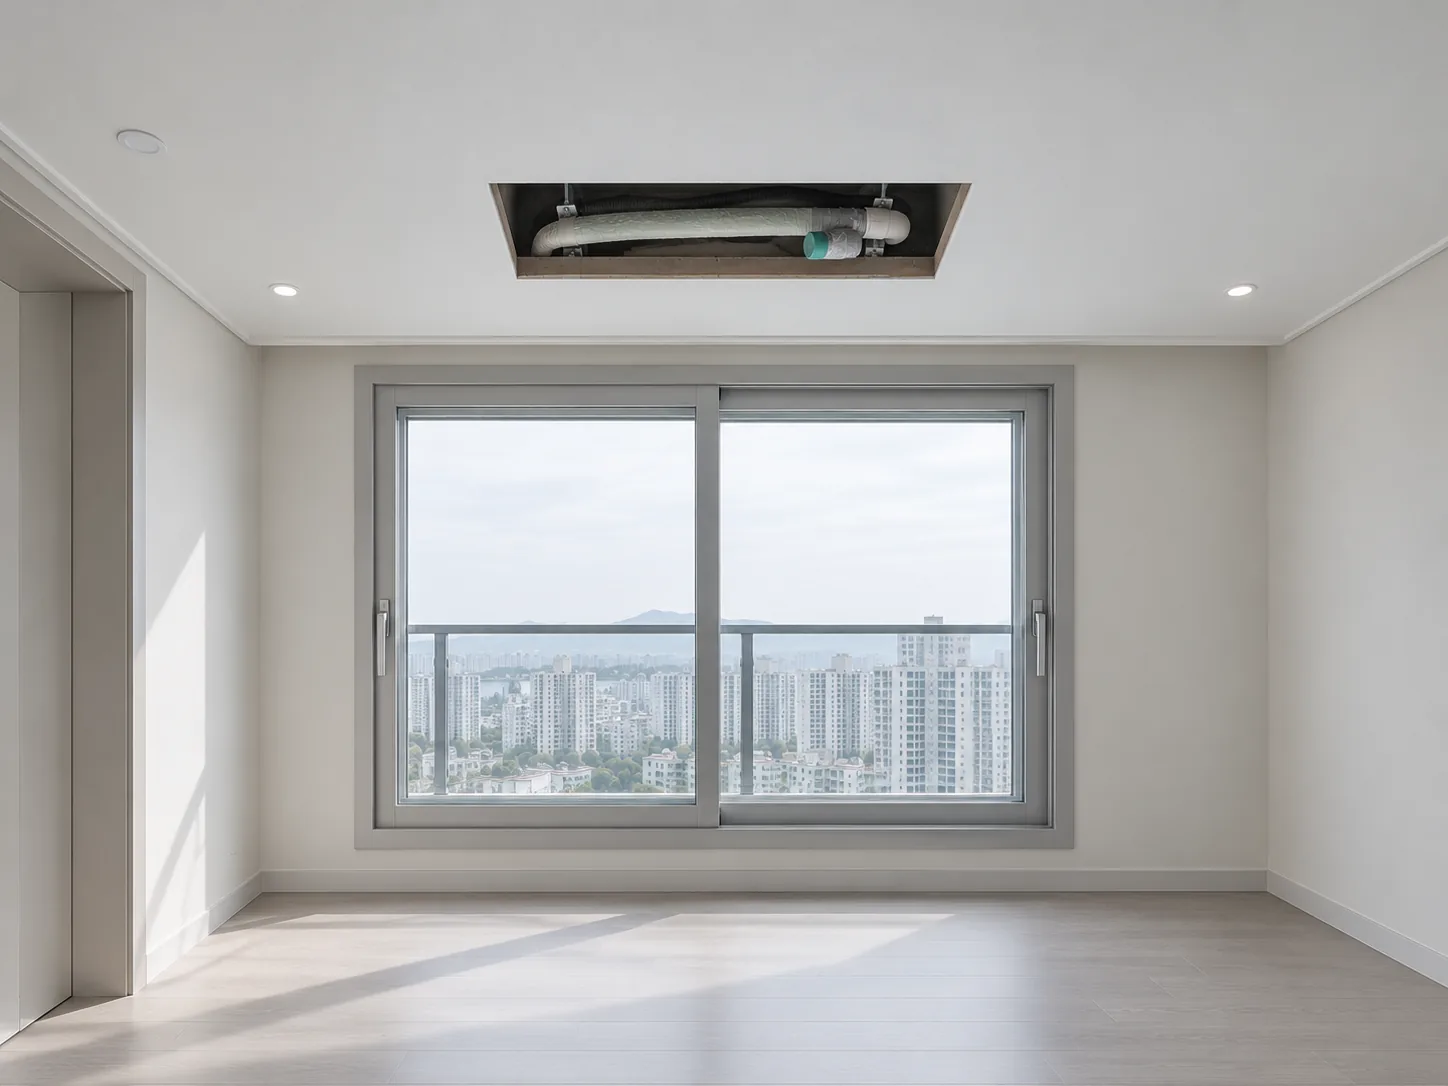
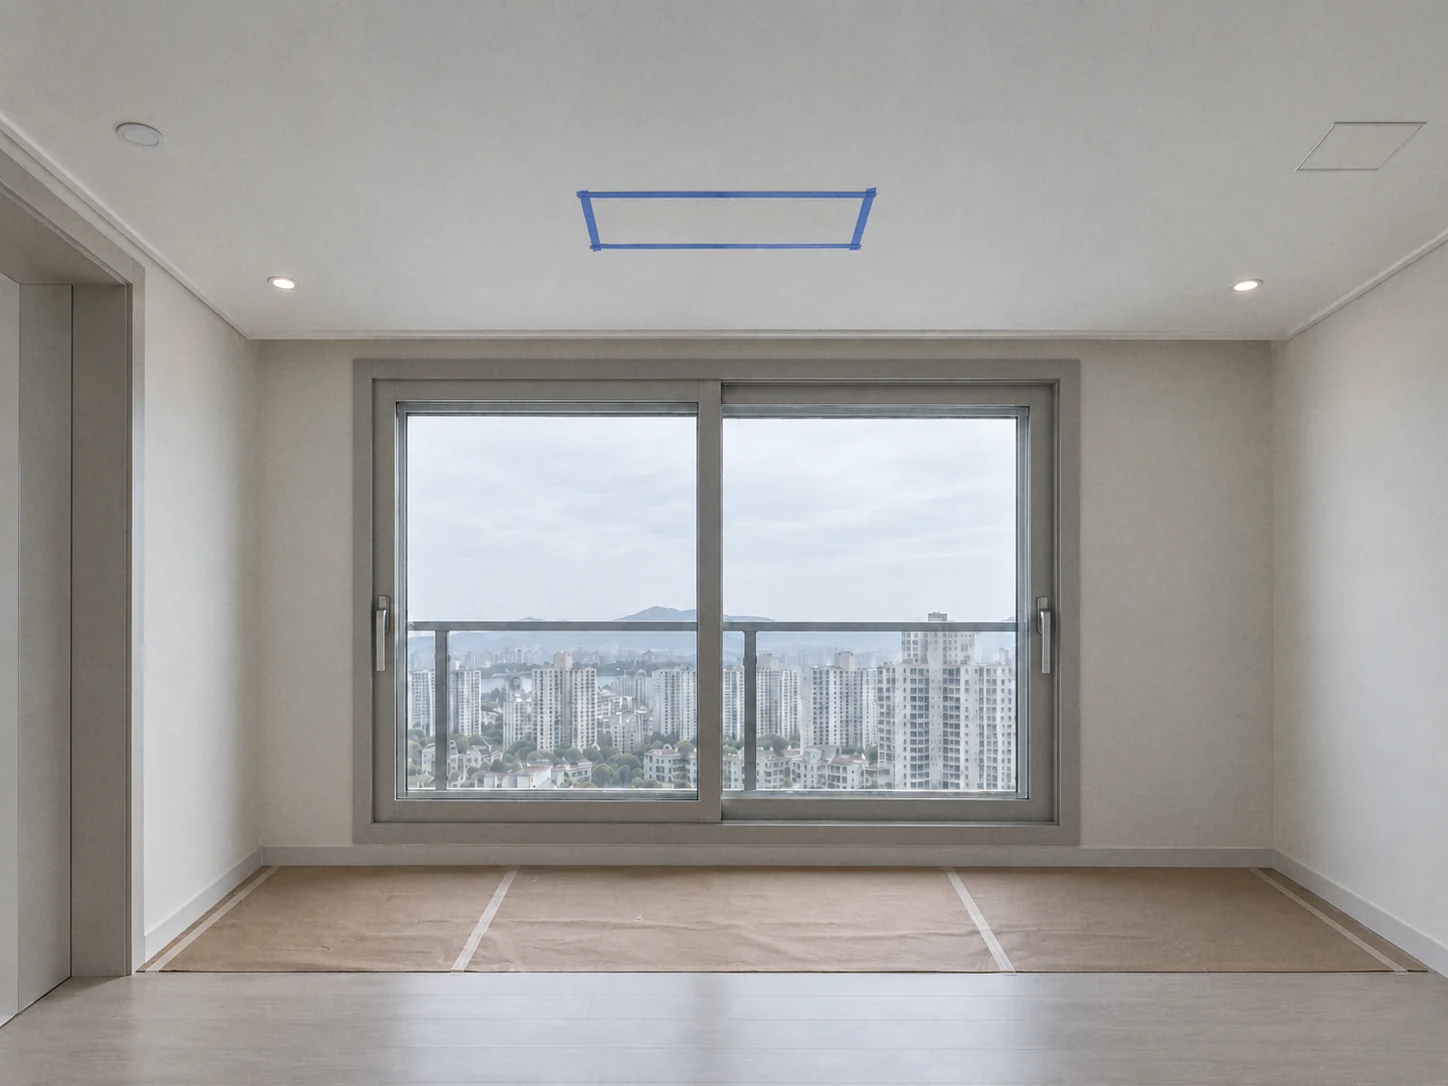
설치 페이지 영상·사진 교체 · 상가/오피스 3D 층 입구 천장 걷기 (#121)
* 설치 페이지: 영상 위치 · 상담/시운전/작업기준 사진 · 홈 설치 카드 사진

## 제품 영상
히어로 맨 아래(첫 화면 밖, 큰 빈 다크 면 뒤)에 있던 삼성 공식 영상 2편을
분해 3D 섹션 제목과 "삼성·LG 공통 구성으로 만든 3D입니다" 사이로 옮겼다.
어두운 유리판·흰 테두리를 없애고 영상마다 --glass-shadow 그림자만 둔다
(플레이어 위에 겹치는 것은 두지 않는다 — 임베드 정책).
Exploded 에 lead 슬롯을 추가했고, 비면 래퍼가 간격을 만들지 않게 :empty 로 접는다.

## 설치 4단계
- 01 상담·견적: 사진 칸이 비어 있었다. 실제 상담 챗봇 화면(설치 상담 → 공간 → 브랜드)을
  캡처해 휴대폰 사진에 합성했다 — '방문 없이'와 부딪히는 현장 사진을 쓰지 않는다
- 04 시운전·기록: 이전 사진은 실내기가 방에 비해 너무 컸고 바닥의 계량컵이 무엇인지
  안 읽혔다. 적정 크기 실내기 아래에서 태블릿으로 보는 시운전 기록(흡입·토출 공기 온도
  그래프, 작업 사진)으로 교체. 화면은 모델에 그리게 하지 않고 만들어 원근 합성했다
- 모든 단계에 사진이 생겨 글만 있던 분기는 지웠다

## 작업 기준 — 항목마다 사진
사진 한 장(천장 속 배관)으로는 세 기준이 무슨 뜻인지 안 읽혔다.
StandardsStory 에 itemPhotos 를 두고 /install/ 만 켰다(/care/·/situation/ 은 그대로):
01 범위 확정 = 방마다 실내기 위치와 실외기실까지 배관 경로를 적은 범위표(코드로 그린 평면),
02 천장 안 기록 = 점검구 안 배관을 휴대폰으로 촬영, 03 연락 한 곳 = 상담부터 시공 사진,
이듬해 세척 요청까지 이어진 한 대화방.

## 홈 '설치가 필요합니다' 카드
천장 개구부 안 배관이 CG 처럼 보였다. 배관을 보이지 않게 — 빈 거실에 실내기 자리를
테이프로 표시하고 점검구는 닫고 바닥을 보양한 장면으로 교체.

이미지는 생성 후 화면·인쇄물을 합성했고, 독립 검토(6장 × 비전 검토 → 수정 → 재검토)를 거쳤다.
SLOTS.md 설치 표를 현재 슬롯 배치로 고쳤다.

검증: 빌드 11 pages · motion 6/6 · case 10/10 · commercial · rhythm 11화면 · dist 게이트 4종

* 상가·오피스 3D: 층 입구에서는 천장판을 걷어 배관이 보이게

층에 들어오면(입구 시점) 반자가 덮여 천장 속 배관이 들어가는 동안만 잠깐 보였다.
층 입구에서는 반자·격자·조명을 걷고 배관과 실내기 본체를 그대로 보여 준다.
구역·실내기 시점으로 들어갈 때만 반자를 덮는다.

반자 덮임 정도(state.ceil)를 카메라 전환과 같이 보간해, 입구 ↔ 실내기 시점을 오갈 때
천장이 툭 나타나거나 사라지지 않고, 건물로 나갈 때도 반자가 비치지 않는다.
아파트(house.html)는 평면에서 이미 배관이 보여 바꾸지 않았다.

---------

diff --git a/public/3d/commercial.html b/public/3d/commercial.html
@@ -505,7 +505,7 @@ const LV_KO = { PASS: '통과', WARN: '주의', INFO: '참고', FAIL: '실패' }
 // 벽 색: 조사 사진에서 고른 값(디자인 선택, 평면 데이터 아님)
 const PALETTE = { office: { wall: 0xEDEFEF }, cafe: { wall: 0xE9E3D9 }, clinic: { wall: 0xF2F4F3 }, academy: { wall: 0xEFEDE8 }, gym: { wall: 0xDDE0E1 } };
 
-const state = { level: 'building', levelDir: null, mode: 'house', zone: null, view: 0, unit: null, pipes: true, grid: true, k: 0, tanP: 0, hover: null, autoCollapsed: false };
+const state = { level: 'building', levelDir: null, mode: 'house', zone: null, view: 0, unit: null, pipes: true, grid: true, k: 0, ceil: 0, tanP: 0, hover: null, autoCollapsed: false };
 // ---- embed: 부모(히어로)가 덮는 영역·요청 렌더 ----
 const EMBED = document.documentElement.classList.contains('embed');
 // inset: 전체 보기(l,r,t,b)와 방 시점(rt,rb)에서 부모 UI 가 덮는 픽셀. occNow = 마지막으로 투영에 건 값(전환 중 보간 출발점)
@@ -2506,7 +2506,7 @@ function configControls(kind, pose) {
 function flyTo(pose, kTo, turn = false) {
   // 방→방 전환 중(dip)에는 벽이 잠깐 걷혀 k 가 .5 아래로 내려가도 방에서 출발한 것으로 본다
   const prev = tween, fromRoom = state.k > .5 || !!prev?.dip, toRoom = kTo > .5, p0 = camera.position.clone(), d0 = camera.getWorldDirection(new THREE.Vector3());
-  tween = { t0: performance.now(), p0, f0: camera.fov, s0: state.tanP, k0: state.k, pose, kTo, dip: fromRoom && toRoom };
+  tween = { t0: performance.now(), p0, f0: camera.fov, s0: state.tanP, k0: state.k, pose, kTo, dip: fromRoom && toRoom, cl0: state.ceil, cl1: ceilTarget() };
   // 절단 목표는 전환마다 지금 단계에서 잡는다: 층 이동 중에 구역·실내기를 눌러도 절단이 중간에 멈추지 않는다
   // 시선을 방위각·앙각으로 고르게 돌리게 하고, 피크 각속도 기준의 시간을 돌려준다
   const turnLook = () => {
@@ -2609,7 +2609,7 @@ function setDetail(others = state.level !== 'floor') {
     if (mine) sp.buildFurn();   // 그 층에 들어갈 때 한 번 만든다
     sp.root.visible = mine || others;
     sp.g.furn.visible = mine;
-    sp.g.grid.visible = mine && state.grid;
+    sp.g.grid.visible = mine && state.grid && state.ceil >= .5;
     BLD.floorG[sp.key].visible = sp.root.visible;
   }
   BLD.roofG.visible = BLD.riserG.visible = others;
@@ -2636,7 +2636,7 @@ function flyWith(poseFn, fly) {
 function flyDolly(pose, inward) {
   const p0 = camera.position.clone(), [y0, a0] = yawPitch(camera.getWorldDirection(new THREE.Vector3())), [y1, a1] = yawPitch(pose.tgt.clone().sub(pose.pos));
   tween = { t0: performance.now(), dur: reduced.matches ? 0 : ENTRY_MS, p0, f0: camera.fov, s0: state.tanP, k0: state.k, pose, kTo: inward ? 1 : 0,
-            y0, a0, y1, dy: wrapPi(y1 - y0), dolly: inward ? 'in' : 'out' };
+            y0, a0, y1, dy: wrapPi(y1 - y0), dolly: inward ? 'in' : 'out', cl0: state.ceil, cl1: ceilTarget() };
   setDetail(true); // 들어가는 동안은 다른 층도 보인다
   controls.enabled = false;
   invalidate();
@@ -2685,7 +2685,7 @@ function placeLevel(k) {
   const level = k === 'roof' ? 'roof' : DATA[k] ? 'floor' : 'building';
   enterLevel(level, level === 'floor' ? k : KEYS[0]);
   state.levelDir = (level === 'roof' ? ROOF_DIR : FRONT_DIR).clone();
-  setBlend(level === 'floor' ? 1 : 0); setDetail(); applyViewport();
+  state.ceil = ceilTarget(); setBlend(level === 'floor' ? 1 : 0); setDetail(); applyViewport();
   const p = currentPose();
   camera.position.copy(p.pos); camera.fov = p.fov; state.tanP = p.tanP; updProj();
   configControls(p.kind, p);
@@ -2716,6 +2716,8 @@ function entries() {
   if (state.level === 'roof') return back;
   return [...back, ...S.units.map(u => ({ id: `${S.key}/${u.id}`, name: entryName(u), sub: MODEL_KO[u.model] || u.model }))];
 }
+// 반자 목표: 구역·실내기 시점만 덮는다(층 입구·건물·옥상은 걷는다)
+function ceilTarget() { return state.zone ? 1 : 0; }
 function setBlend(k) {
   state.k = k;
   const solid = k > .999;
@@ -2723,11 +2725,15 @@ function setBlend(k) {
     m.opacity = lerp(base, 1, k);
     if (m.transparent === solid) { m.transparent = !solid; m.depthWrite = solid; m.needsUpdate = true; }
   }
-  mat.ceil.opacity = k;
-  if (mat.ceil.transparent === solid) { mat.ceil.transparent = !solid; mat.ceil.needsUpdate = true; }
-  S.g.ceil.visible = k > .01;
+  // 층 입구에서는 반자(천장판)를 걷어 천장 속 배관·실내기 본체가 계속 보이게 둔다. 구역·실내기 시점으로 들어갈 때만 반자를 덮는다
+  // (2026-09-23 대표: 상가·오피스는 배관이 들어가는 동안만 잠깐 보였다. 아파트는 평면에서 이미 보여 그대로)
+  const c = Math.min(k, state.ceil), cSolid = c > .999, open = state.ceil < .5;
+  mat.ceil.opacity = c;
+  if (mat.ceil.transparent === cSolid) { mat.ceil.transparent = !cSolid; mat.ceil.needsUpdate = true; }
+  S.g.ceil.visible = c > .01;
+  if (state.level === 'floor') S.g.grid.visible = state.grid && !open; // 격자·조명은 반자에 붙어 있다
   // 천장 위(배관·실내기 본체)는 시점으로 들어갈수록 숨긴다: 위에서 수직으로 내려올 때 옆 실내기 본체 윗면이 화면을 덮는다. 시점 안에서는 원래 천장에 가려 안 보인다
-  S.g.pipes.visible = state.pipes && k <= .5; mat.acBody.visible = k <= .5;
+  S.g.pipes.visible = state.pipes && (k <= .5 || open); mat.acBody.visible = k <= .5 || open;
   mat.grid.opacity = lerp(.32, .95, k); mat.grid.color.lerpColors(GRID_OVER, GRID_ROOM, k);
   mat.patch.opacity = .6 * (1 - k); mat.patchEdge.opacity = .9 * (1 - k); mat.arrow.opacity = .75 * (1 - k);
   S.patchObjs.forEach(o => { o.visible = k < .99; });
@@ -2794,7 +2800,7 @@ canvas.addEventListener('pointerup', e => {
 });
 $('btnHome').addEventListener('click', goHome);
 $('btnPipes').addEventListener('click', () => {
-  state.pipes = !state.pipes; Object.values(spaces).forEach(s => { s.g.pipes.visible = state.pipes && (s !== S || state.k <= .5); }); invalidate();
+  state.pipes = !state.pipes; Object.values(spaces).forEach(s => { s.g.pipes.visible = state.pipes && (s !== S || state.k <= .5 || state.ceil < .5); }); invalidate();
   $('btnPipes').setAttribute('aria-pressed', String(state.pipes));
 });
 $('btnGrid').addEventListener('click', () => {
@@ -2833,6 +2839,7 @@ function tick(now) {
   if (tween) {
     const t = tween.dur ? clamp((now - tween.t0) / tween.dur, 0, 1) : 1, e = ease(t);
     const dolly = tween.dolly, inw = dolly === 'in';
+    state.ceil = lerp(tween.cl0, tween.cl1, e); // 반자는 카메라와 같이 서서히
     if (tween.c1) { const u = 1 - e; camera.position.copy(tween.p0).multiplyScalar(u * u * u).addScaledVector(tween.c1, 3 * u * u * e).addScaledVector(tween.c2, 3 * u * e * e).addScaledVector(tween.pose.pos, e * e * e); }
     else camera.position.lerpVectors(tween.p0, tween.pose.pos, e);
     if (tween.arc) camera.position.y += Math.sin(Math.PI * e) * tween.arc; // e 기준: 출발·착지에서 수직 속도 0

diff --git a/public/3d/office.html b/public/3d/office.html
@@ -505,7 +505,7 @@ const LV_KO = { PASS: '통과', WARN: '주의', INFO: '참고', FAIL: '실패' }
 // 벽 색: 조사 사진에서 고른 값(디자인 선택, 평면 데이터 아님)
 const PALETTE = { office: { wall: 0xEDEFEF }, cafe: { wall: 0xE9E3D9 }, clinic: { wall: 0xF2F4F3 }, academy: { wall: 0xEFEDE8 }, gym: { wall: 0xDDE0E1 } };
 
-const state = { level: 'building', levelDir: null, mode: 'house', zone: null, view: 0, unit: null, pipes: true, grid: true, k: 0, tanP: 0, hover: null, autoCollapsed: false };
+const state = { level: 'building', levelDir: null, mode: 'house', zone: null, view: 0, unit: null, pipes: true, grid: true, k: 0, ceil: 0, tanP: 0, hover: null, autoCollapsed: false };
 // ---- embed: 부모(히어로)가 덮는 영역·요청 렌더 ----
 const EMBED = document.documentElement.classList.contains('embed');
 // inset: 전체 보기(l,r,t,b)와 방 시점(rt,rb)에서 부모 UI 가 덮는 픽셀. occNow = 마지막으로 투영에 건 값(전환 중 보간 출발점)
@@ -2506,7 +2506,7 @@ function configControls(kind, pose) {
 function flyTo(pose, kTo, turn = false) {
   // 방→방 전환 중(dip)에는 벽이 잠깐 걷혀 k 가 .5 아래로 내려가도 방에서 출발한 것으로 본다
   const prev = tween, fromRoom = state.k > .5 || !!prev?.dip, toRoom = kTo > .5, p0 = camera.position.clone(), d0 = camera.getWorldDirection(new THREE.Vector3());
-  tween = { t0: performance.now(), p0, f0: camera.fov, s0: state.tanP, k0: state.k, pose, kTo, dip: fromRoom && toRoom };
+  tween = { t0: performance.now(), p0, f0: camera.fov, s0: state.tanP, k0: state.k, pose, kTo, dip: fromRoom && toRoom, cl0: state.ceil, cl1: ceilTarget() };
   // 절단 목표는 전환마다 지금 단계에서 잡는다: 층 이동 중에 구역·실내기를 눌러도 절단이 중간에 멈추지 않는다
   // 시선을 방위각·앙각으로 고르게 돌리게 하고, 피크 각속도 기준의 시간을 돌려준다
   const turnLook = () => {
@@ -2609,7 +2609,7 @@ function setDetail(others = state.level !== 'floor') {
     if (mine) sp.buildFurn();   // 그 층에 들어갈 때 한 번 만든다
     sp.root.visible = mine || others;
     sp.g.furn.visible = mine;
-    sp.g.grid.visible = mine && state.grid;
+    sp.g.grid.visible = mine && state.grid && state.ceil >= .5;
     BLD.floorG[sp.key].visible = sp.root.visible;
   }
   BLD.roofG.visible = BLD.riserG.visible = others;
@@ -2636,7 +2636,7 @@ function flyWith(poseFn, fly) {
 function flyDolly(pose, inward) {
   const p0 = camera.position.clone(), [y0, a0] = yawPitch(camera.getWorldDirection(new THREE.Vector3())), [y1, a1] = yawPitch(pose.tgt.clone().sub(pose.pos));
   tween = { t0: performance.now(), dur: reduced.matches ? 0 : ENTRY_MS, p0, f0: camera.fov, s0: state.tanP, k0: state.k, pose, kTo: inward ? 1 : 0,
-            y0, a0, y1, dy: wrapPi(y1 - y0), dolly: inward ? 'in' : 'out' };
+            y0, a0, y1, dy: wrapPi(y1 - y0), dolly: inward ? 'in' : 'out', cl0: state.ceil, cl1: ceilTarget() };
   setDetail(true); // 들어가는 동안은 다른 층도 보인다
   controls.enabled = false;
   invalidate();
@@ -2685,7 +2685,7 @@ function placeLevel(k) {
   const level = k === 'roof' ? 'roof' : DATA[k] ? 'floor' : 'building';
   enterLevel(level, level === 'floor' ? k : KEYS[0]);
   state.levelDir = (level === 'roof' ? ROOF_DIR : FRONT_DIR).clone();
-  setBlend(level === 'floor' ? 1 : 0); setDetail(); applyViewport();
+  state.ceil = ceilTarget(); setBlend(level === 'floor' ? 1 : 0); setDetail(); applyViewport();
   const p = currentPose();
   camera.position.copy(p.pos); camera.fov = p.fov; state.tanP = p.tanP; updProj();
   configControls(p.kind, p);
@@ -2716,6 +2716,8 @@ function entries() {
   if (state.level === 'roof') return back;
   return [...back, ...S.units.map(u => ({ id: `${S.key}/${u.id}`, name: entryName(u), sub: MODEL_KO[u.model] || u.model }))];
 }
+// 반자 목표: 구역·실내기 시점만 덮는다(층 입구·건물·옥상은 걷는다)
+function ceilTarget() { return state.zone ? 1 : 0; }
 function setBlend(k) {
   state.k = k;
   const solid = k > .999;
@@ -2723,11 +2725,15 @@ function setBlend(k) {
     m.opacity = lerp(base, 1, k);
     if (m.transparent === solid) { m.transparent = !solid; m.depthWrite = solid; m.needsUpdate = true; }
   }
-  mat.ceil.opacity = k;
-  if (mat.ceil.transparent === solid) { mat.ceil.transparent = !solid; mat.ceil.needsUpdate = true; }
-  S.g.ceil.visible = k > .01;
+  // 층 입구에서는 반자(천장판)를 걷어 천장 속 배관·실내기 본체가 계속 보이게 둔다. 구역·실내기 시점으로 들어갈 때만 반자를 덮는다
+  // (2026-09-23 대표: 상가·오피스는 배관이 들어가는 동안만 잠깐 보였다. 아파트는 평면에서 이미 보여 그대로)
+  const c = Math.min(k, state.ceil), cSolid = c > .999, open = state.ceil < .5;
+  mat.ceil.opacity = c;
+  if (mat.ceil.transparent === cSolid) { mat.ceil.transparent = !cSolid; mat.ceil.needsUpdate = true; }
+  S.g.ceil.visible = c > .01;
+  if (state.level === 'floor') S.g.grid.visible = state.grid && !open; // 격자·조명은 반자에 붙어 있다
   // 천장 위(배관·실내기 본체)는 시점으로 들어갈수록 숨긴다: 위에서 수직으로 내려올 때 옆 실내기 본체 윗면이 화면을 덮는다. 시점 안에서는 원래 천장에 가려 안 보인다
-  S.g.pipes.visible = state.pipes && k <= .5; mat.acBody.visible = k <= .5;
+  S.g.pipes.visible = state.pipes && (k <= .5 || open); mat.acBody.visible = k <= .5 || open;
   mat.grid.opacity = lerp(.32, .95, k); mat.grid.color.lerpColors(GRID_OVER, GRID_ROOM, k);
   mat.patch.opacity = .6 * (1 - k); mat.patchEdge.opacity = .9 * (1 - k); mat.arrow.opacity = .75 * (1 - k);
   S.patchObjs.forEach(o => { o.visible = k < .99; });
@@ -2794,7 +2800,7 @@ canvas.addEventListener('pointerup', e => {
 });
 $('btnHome').addEventListener('click', goHome);
 $('btnPipes').addEventListener('click', () => {
-  state.pipes = !state.pipes; Object.values(spaces).forEach(s => { s.g.pipes.visible = state.pipes && (s !== S || state.k <= .5); }); invalidate();
+  state.pipes = !state.pipes; Object.values(spaces).forEach(s => { s.g.pipes.visible = state.pipes && (s !== S || state.k <= .5 || state.ceil < .5); }); invalidate();
   $('btnPipes').setAttribute('aria-pressed', String(state.pipes));
 });
 $('btnGrid').addEventListener('click', () => {
@@ -2833,6 +2839,7 @@ function tick(now) {
   if (tween) {
     const t = tween.dur ? clamp((now - tween.t0) / tween.dur, 0, 1) : 1, e = ease(t);
     const dolly = tween.dolly, inw = dolly === 'in';
+    state.ceil = lerp(tween.cl0, tween.cl1, e); // 반자는 카메라와 같이 서서히
     if (tween.c1) { const u = 1 - e; camera.position.copy(tween.p0).multiplyScalar(u * u * u).addScaledVector(tween.c1, 3 * u * u * e).addScaledVector(tween.c2, 3 * u * e * e).addScaledVector(tween.pose.pos, e * e * e); }
     else camera.position.lerpVectors(tween.p0, tween.pose.pos, e);
     if (tween.arc) camera.position.y += Math.sin(Math.PI * e) * tween.arc; // e 기준: 출발·착지에서 수직 속도 0
